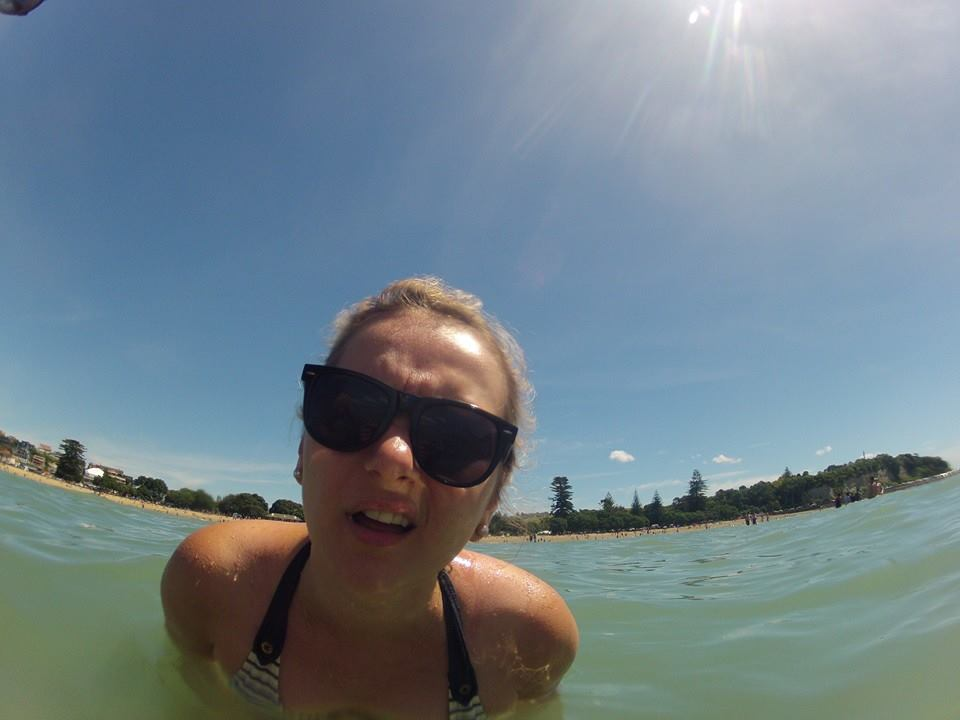
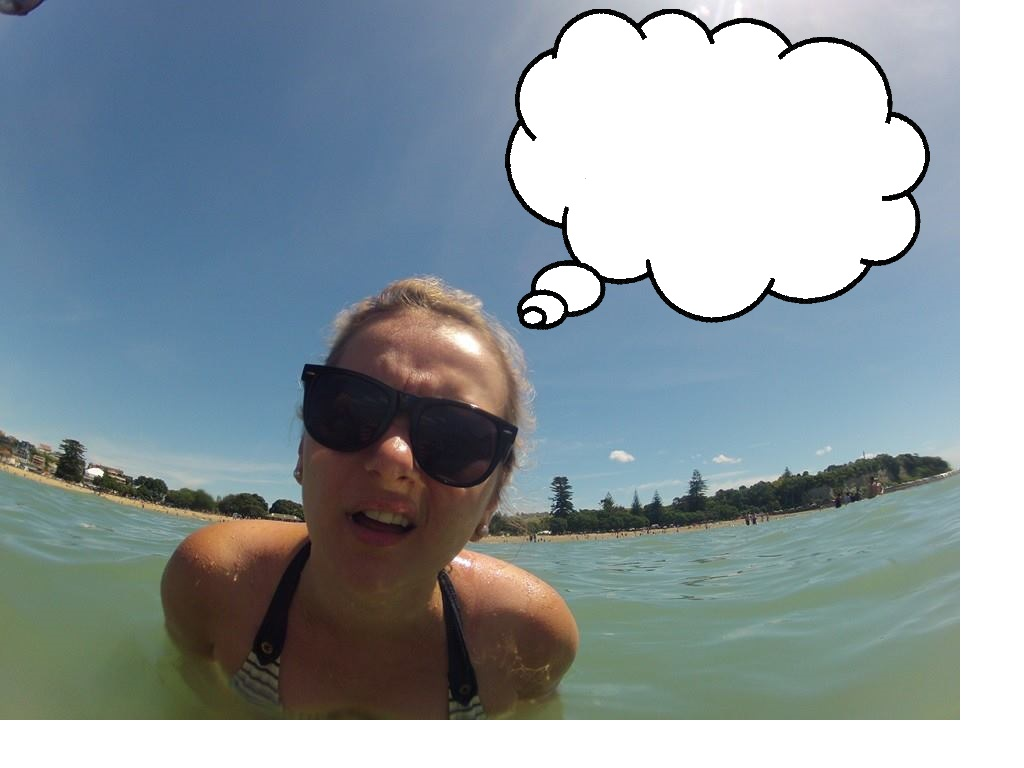
updates

diff --git a/Scripts/jquery.inputfit.js b/Scripts/jquery.inputfit.js
@@ -1,0 +1,64 @@
+/*global define:true */
+(function (factory) {
+    if (typeof define === 'function' && define.amd) {
+        // AMD. Register as an anonymous module.
+        define(['jquery'], factory);
+    } else {
+        // Browser globals
+        factory(jQuery);
+    }
+}(function ($) {
+    $.fn.inputfit = function (options) {
+        var settings = $.extend({
+            minSize: 10,
+            maxSize: false
+        }, options);
+
+        this.each(function () {
+            var $input = $(this);
+
+            if (!$input.is(':input')) {
+                return;
+            }
+
+            $input.off('keyup.infputfit keydown.inputfit');
+
+            var maxSize = parseFloat(settings.maxSize || $input.css('font-size'), 10);
+            var width = $input.width();
+            var clone = $input.data('inputfit-clone');
+
+            if (!clone) {
+                clone = $('<div></div>', {
+                    css: {
+                        fontSize: $input.css('font-size'),
+                        fontFamily: $input.css('font-family'),
+                        position: 'absolute',
+                        left: '-9999px',
+                        visibility: 'hidden'
+                    }
+                }).insertAfter($input);
+
+                $input.data('inputfit-clone', clone);
+            }
+
+            $input.on('keyup.inputfit keydown.inputfit', function () {
+                var $this = $(this);
+
+                clone.html($this.val().replace(/ /g, '&nbsp;'));
+
+                var ratio = width / (clone.width() || 1),
+                    currentFontSize = parseInt($this.css('font-size'), 10),
+                    fontSize = Math.floor(currentFontSize * ratio);
+
+                if (fontSize > maxSize) { fontSize = maxSize; }
+                if (fontSize < settings.minSize) { fontSize = settings.minSize; }
+
+                $this.css('font-size', fontSize);
+                clone.css('font-size', fontSize);
+            });
+        });
+
+        return this;
+    };
+
+}));

diff --git a/Content/Site.css b/Content/Site.css
@@ -754,3 +754,19 @@ tr.pager td {
             margin: 0;
         }
 }
+
+.messageInput {
+    border:0px; /*important*/
+    background-color:transparent; /*important*/ 
+    position:absolute; /*important*/
+    width:280px;
+    height:190px;
+   position:absolute;
+left:620px;
+top:150px;
+font-size:2em;
+font-weight:bold;
+}
+.messageInput:focus { border:0px; /*important*/
+                      outline: none;
+}

diff --git a/Controllers/IevaThoughtController.cs b/Controllers/IevaThoughtController.cs
@@ -1,0 +1,52 @@
+using System;
+using System.Collections.Generic;
+using System.Data.Entity;
+using System.Linq;
+using System.Web;
+using System.Web.Mvc;
+using IevaThinks.Models;
+
+namespace IevaThinks.Controllers
+{
+    [Authorize]
+    public class IevaThoughtController : Controller
+    {
+        //
+        // GET: /IevaThought/
+        [HttpGet]
+        public IevaThought GetOne(int Id)
+        {
+            var c = new IevaThoughtsContext();            
+            var it = c.IevaThoughts.FirstOrDefault(t => t.Id == Id);
+            if (it != null)
+            {
+                it.ViewCount++;
+                c.SaveChanges();
+            }
+            return it;
+        }
+        [HttpGet]
+        public IEnumerable<IevaThought> GetTop(int count)
+        {
+            var c = new IevaThoughtsContext();
+            var tList = c.IevaThoughts.OrderByDescending(t => t.ViewCount).Take(count);
+
+            return tList;
+        }
+        [HttpPost]
+        public ActionResult Save(string txtMessage)
+        {
+            var c = new IevaThoughtsContext();
+            var t = new IevaThought()
+            {
+                CreatedOn = DateTime.UtcNow,
+                Thought = txtMessage,
+                Username = this.User.Identity.Name,
+                SharedOn = Consants.BaselineDate
+            };
+            c.IevaThoughts.Add(t);
+            c.SaveChanges();
+            return null;
+        }
+    }
+}

diff --git a/Models/IevaThought.cs b/Models/IevaThought.cs
@@ -1,0 +1,37 @@
+using System;
+using System.Collections.Generic;
+using System.ComponentModel.DataAnnotations;
+using System.ComponentModel.DataAnnotations.Schema;
+using System.Data.Entity;
+using System.Linq;
+using System.Web;
+
+namespace IevaThinks.Models
+{
+    public class IevaThoughtsContext : DbContext
+    {
+        public IevaThoughtsContext()
+            : base("DefaultConnection")
+        {
+        }
+
+        public DbSet<IevaThought> IevaThoughts { get; set; }
+    }
+    public class IevaThought
+    {
+        [Key]
+        [DatabaseGeneratedAttribute(DatabaseGeneratedOption.Identity)]
+        public int Id { get; set; }
+        [Required]
+        [Display(Name = "Thought")]
+        public string Thought { get; set; }
+        [Display(Name = "Created By")]
+        public string Username { get; set; }
+        [Display(Name = "Created On")]
+        public DateTime CreatedOn { get; set; }
+        [Display(Name = "Shared On")]
+        public DateTime SharedOn { get; set; }
+        [Display(Name = "Number of Views")]
+        public int ViewCount { get; set; }
+    }
+}

diff --git a/App_Start/RouteConfig.cs b/App_Start/RouteConfig.cs
@@ -12,7 +12,11 @@ namespace IevaThinks
         public static void RegisterRoutes(RouteCollection routes)
         {
             routes.IgnoreRoute("{resource}.axd/{*pathInfo}");
-
+            routes.MapRoute(
+         name: "LoadOne",
+         url: "{id}",
+         defaults: new { controller = "IevaThought", action = "GetOne", id = UrlParameter.Optional }
+     );
             routes.MapRoute(
                 name: "Default",
                 url: "{controller}/{action}/{id}",

diff --git a/Models/Consants.cs b/Models/Consants.cs
@@ -1,0 +1,12 @@
+using System;
+using System.Collections.Generic;
+using System.Linq;
+using System.Web;
+
+namespace IevaThinks.Models
+{
+    public class Consants
+    {
+        public static readonly DateTime BaselineDate = DateTime.Parse("1/1/2000");
+    }
+}
